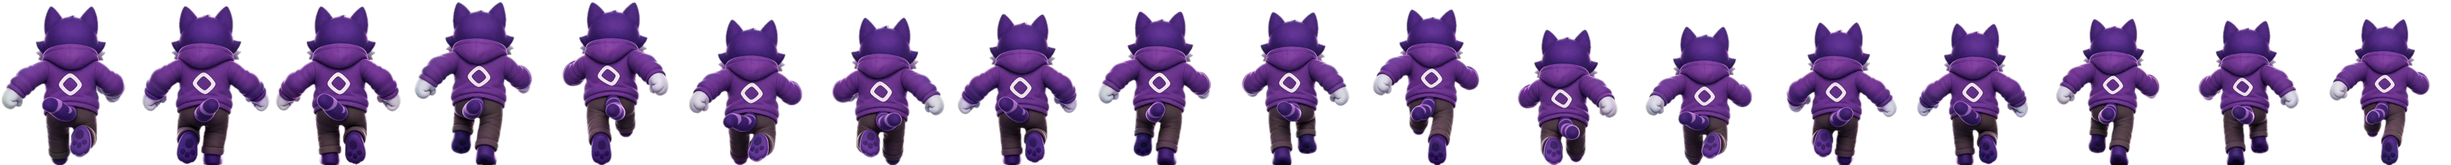
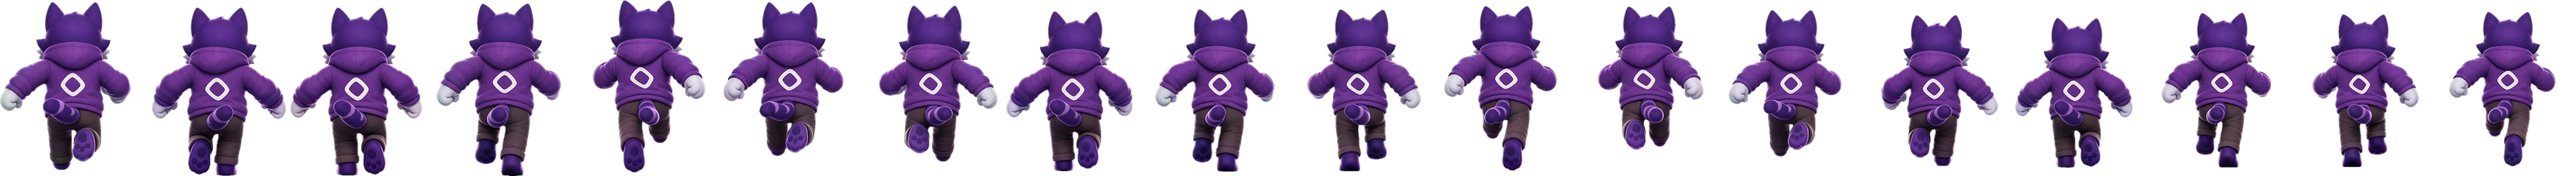
Monshi City: fix chart loading + run shake, add Toshi NPCs, fewer NPCs
- Chart: fetch DexScreener directly (CORS-enabled) with the /api/dex proxy
  as fallback — fixes the board stuck on 'LOADING LIVE CHART'
- Run shake: rebuild run sheets with a shared union bounding box (no more
  per-frame re-centering) so only the limbs move — smooth, no jitter
- NPCs: reduce 7 -> 5 and mix in blue Toshi (hue-shifted run cycle) —
  3 Monshi + 2 Toshi roaming the city

Claude-Session: https://claude.ai/code/session_014skJoMzzz4GsdHJ96MaCeE

diff --git a/monshi-city.html b/monshi-city.html
@@ -119,15 +119,13 @@ var streetTex=loadTex('/public/monshi-city/street.jpg',24,24);
 var facadePurpleTex=loadTex('/public/monshi-city/facade_purple.jpg',1,2);
 var facadeTealTex=loadTex('/public/monshi-city/facade_teal.jpg',1,2);
 var SIGTEX={glass:loadTex('/public/monshi-city/facade_glass.jpg',1,2),fire:loadTex('/public/monshi-city/facade_fire.jpg',1,1),gold:loadTex('/public/monshi-city/facade_gold.jpg',1,2)};
-// real Monshi character art — animated 18-frame run cycles, back AND front
+// real character art — animated 18-frame run cycles (Monshi + blue Toshi), back AND front
 var charFrontTex=texLoader.load('/public/monshi-city/char_front.png');charFrontTex.colorSpace=THREE.SRGBColorSpace; // static pose for the statue
-var N_RUN=18, RUN_AR=0.8208, FRUN_AR=0.7792, FRONT_AR=339/677;
-var backImg=new Image(), frontImg=new Image();
-function mkTex(img){var t=new THREE.Texture(img);t.colorSpace=THREE.SRGBColorSpace;t.wrapS=THREE.RepeatWrapping;t.repeat.set(1/N_RUN,1);return t;}
-var playerBackTex=mkTex(backImg), npcBackTex=mkTex(backImg), playerFrontTex=mkTex(frontImg), npcFrontTex=mkTex(frontImg);
-backImg.onload=function(){playerBackTex.needsUpdate=true;npcBackTex.needsUpdate=true;};
-frontImg.onload=function(){playerFrontTex.needsUpdate=true;npcFrontTex.needsUpdate=true;};
-backImg.src='/public/monshi-city/char_run.png';frontImg.src='/public/monshi-city/char_frontrun.png';
+var N_RUN=18, RUN_AR=0.8086, FRUN_AR=0.75, FRONT_AR=339/677;
+function loadRunSheet(url){var img=new Image();var t=new THREE.Texture(img);t.colorSpace=THREE.SRGBColorSpace;t.wrapS=THREE.RepeatWrapping;t.repeat.set(1/N_RUN,1);img.onload=function(){t.needsUpdate=true;};img.src=url;return t;}
+var playerBackTex=loadRunSheet('/public/monshi-city/char_run.png'), playerFrontTex=loadRunSheet('/public/monshi-city/char_frontrun.png');
+var npcBackTex=loadRunSheet('/public/monshi-city/char_run.png'), npcFrontTex=loadRunSheet('/public/monshi-city/char_frontrun.png');
+var toshiBackTex=loadRunSheet('/public/monshi-city/char_run_toshi.png'), toshiFrontTex=loadRunSheet('/public/monshi-city/char_frontrun_toshi.png');
 function makeChar(h,backTex,frontTex){
   h=h||2.0;backTex=backTex||npcBackTex;frontTex=frontTex||npcFrontTex;
   var mat=new THREE.SpriteMaterial({map:backTex,transparent:true,alphaTest:0.3,depthWrite:true});
@@ -408,12 +406,23 @@ addAd(-8.3,12,1,'rent',1);
 addAd(8.3,-6,-1,'rent',2);
 addAd(-8.3,-24,1,'rent',3);
 addAd(8.3,-42,-1,'rent',4);
+var MONSHI_TOKEN='0xB744F5CDb792d8187640214C4A1c9aCE29af7777';
+function applyDex(d){
+  if(!d||!d.price)return;
+  chartHist.push(parseFloat(d.price));if(chartHist.length>44)chartHist.shift();
+  if(d.url)DEX_URL=d.url;
+  if(chartBoard){drawChart(chartBoard.cv,d);chartBoard.tex.needsUpdate=true;}
+}
 function updateDex(){
-  fetch('/api/dex').then(function(r){return r.json();}).then(function(d){
-    if(d&&d.price){chartHist.push(parseFloat(d.price));if(chartHist.length>44)chartHist.shift();
-      if(d.url)DEX_URL=d.url;
-      if(chartBoard){drawChart(chartBoard.cv,d);chartBoard.tex.needsUpdate=true;}}
-  }).catch(function(){});
+  // DexScreener allows CORS — hit it directly; fall back to the serverless proxy
+  fetch('https://api.dexscreener.com/latest/dex/tokens/'+MONSHI_TOKEN).then(function(r){return r.json();}).then(function(j){
+    var pairs=(j&&j.pairs)?j.pairs.slice():[];
+    pairs.sort(function(a,b){return((b.liquidity&&b.liquidity.usd)||0)-((a.liquidity&&a.liquidity.usd)||0);});
+    var p=pairs[0];if(!p)throw new Error('no pair');
+    applyDex({price:p.priceUsd,change24:(p.priceChange&&p.priceChange.h24)||0,url:p.url});
+  }).catch(function(){
+    fetch('/api/dex').then(function(r){return r.json();}).then(applyDex).catch(function(){});
+  });
 }
 updateDex();setInterval(updateDex,30000);
 
@@ -543,8 +552,9 @@ var trailOn=false,trailPts=[],trailColor='#ff7ab5';
 /* ---------- wandering NPC Monshis (real-art billboards) ---------- */
 var NPCS=[];
 function newTarget(){return new THREE.Vector3((Math.random()-0.5)*14,0,-60+Math.random()*110);}
-for(var n=0;n<7;n++){
-  var m=makeChar(1.75+Math.random()*0.3,npcBackTex,npcFrontTex);
+for(var n=0;n<5;n++){
+  var isToshi=(n>=3); // 3 Monshi + 2 Toshi
+  var m=makeChar(1.75+Math.random()*0.3, isToshi?toshiBackTex:npcBackTex, isToshi?toshiFrontTex:npcFrontTex);
   var sx=(Math.random()<0.5?-1:1)*(3+Math.random()*5);
   m.group.position.set(sx,0,-50+Math.random()*100);
   scene.add(m.group);
